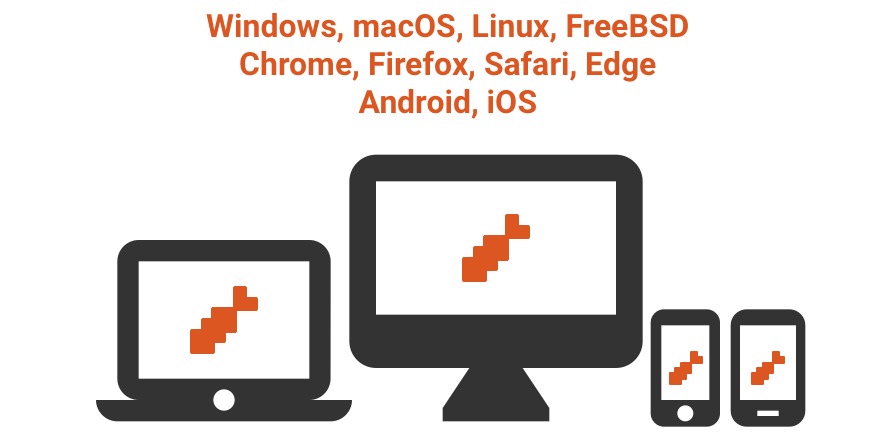
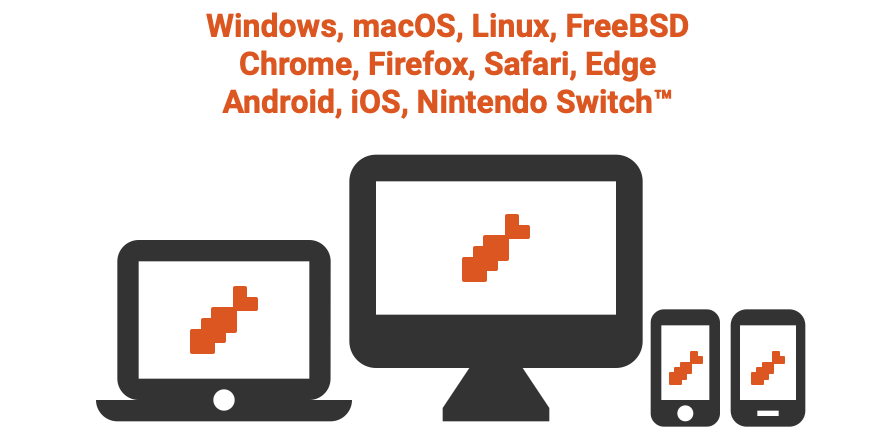
index: Add explanation about Nintendo Switch

Changed region(s): [[0.2188, 0.0312, 0.7812, 0.2812]]

diff --git a/docs/index.html b/docs/index.html
@@ -114,8 +114,8 @@
     <h3 lang="en">Multiplatform</h3>
     <h3 lang="ja">マルチプラットフォーム</h3>
     <p class="img"><img src="images/multiplatforms.png" width="448" height="224" alt="Multiplatform"></p>
-    <p lang="en">Ebiten games work on desktop (Windows, macOS, Linux, and FreeBSD), web browsers (through WebAssembly), and even on mobile (Android and iOS)! Plus, Ebiten is implemented in pure Go on Windows, so Windows developers do not need to install a C compiler.</p>
-    <p lang="ja">Ebiten のゲームは様々な環境で動きます。デスクトップ (Windows、macOS、Linux、FreeBSD)、 Web ブラウザ (WebAssembly)、モバイル (Android と iOS) で動きます。さらに、 Windows 向けビルドは Pure Go なので、 C コンパイラなしで開発できます。</p>
+    <p lang="en">Ebiten games work on desktop (Windows, macOS, Linux, and FreeBSD), web browsers (through WebAssembly), and even on mobile (Android and iOS)! Plus, Ebiten is implemented in pure Go on Windows, so Windows developers do not need to install a C compiler. Nintendo Switch™ is also supported!</p>
+    <p lang="ja">Ebiten のゲームは様々な環境で動きます。デスクトップ (Windows、macOS、Linux、FreeBSD)、 Web ブラウザ (WebAssembly)、モバイル (Android と iOS) で動きます。さらに、 Windows 向けビルドは Pure Go なので、 C コンパイラなしで開発できます。 Nintendo Switch™ もサポートされています。</p>
   </div>
   <div class="grid-item-2">
     <h3 lang="en">High Performance</h3>

diff --git a/contents/index.html b/contents/index.html
@@ -52,8 +52,8 @@
     <h3 lang="en">Multiplatform</h3>
     <h3 lang="ja">マルチプラットフォーム</h3>
     <p class="img"><img src="images/multiplatforms.png" width="448" height="224" alt="Multiplatform"></p>
-    <p lang="en">Ebiten games work on desktop (Windows, macOS, Linux, and FreeBSD), web browsers (through WebAssembly), and even on mobile (Android and iOS)! Plus, Ebiten is implemented in pure Go on Windows, so Windows developers do not need to install a C compiler.</p>
-    <p lang="ja">Ebiten のゲームは様々な環境で動きます。デスクトップ (Windows、macOS、Linux、FreeBSD)、 Web ブラウザ (WebAssembly)、モバイル (Android と iOS) で動きます。さらに、 Windows 向けビルドは Pure Go なので、 C コンパイラなしで開発できます。</p>
+    <p lang="en">Ebiten games work on desktop (Windows, macOS, Linux, and FreeBSD), web browsers (through WebAssembly), and even on mobile (Android and iOS)! Plus, Ebiten is implemented in pure Go on Windows, so Windows developers do not need to install a C compiler. Nintendo Switch™ is also supported!</p>
+    <p lang="ja">Ebiten のゲームは様々な環境で動きます。デスクトップ (Windows、macOS、Linux、FreeBSD)、 Web ブラウザ (WebAssembly)、モバイル (Android と iOS) で動きます。さらに、 Windows 向けビルドは Pure Go なので、 C コンパイラなしで開発できます。 Nintendo Switch™ もサポートされています。</p>
   </div>
   <div class="grid-item-2">
     <h3 lang="en">High Performance</h3>
